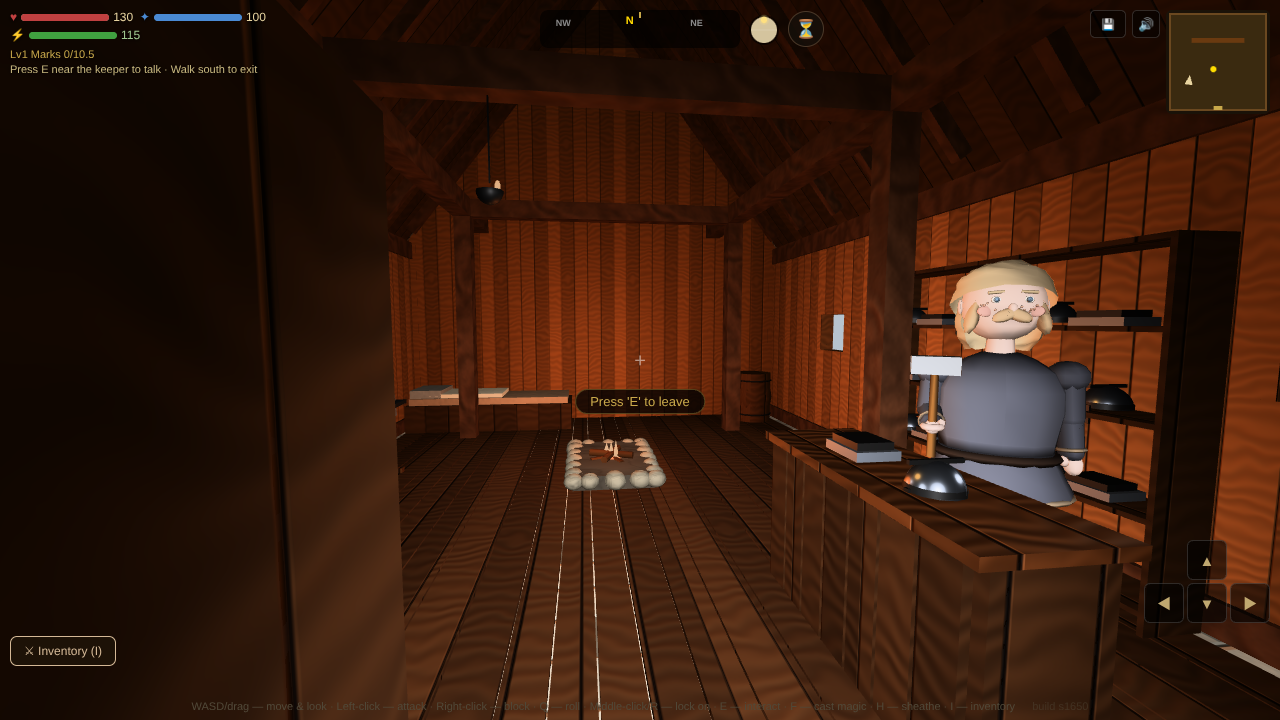
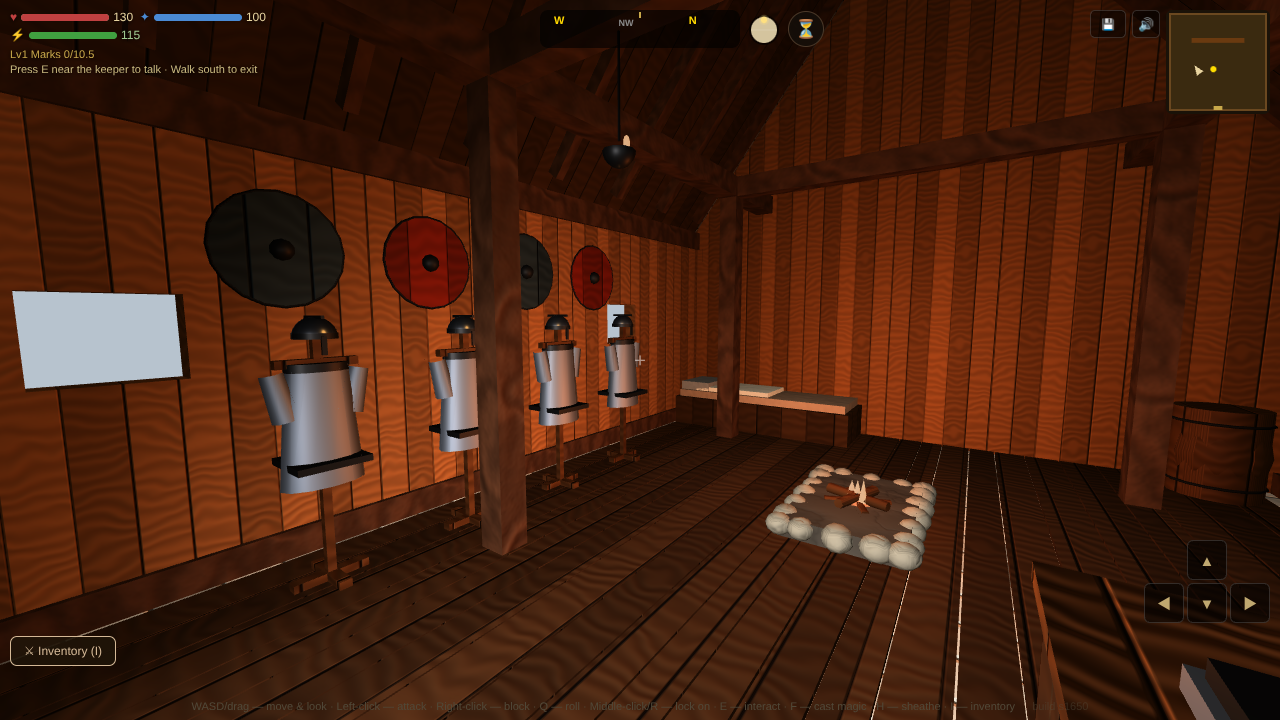
Look S2301: the pictures from inside, toward the trade's side; shopfurn green
Claude-Session: https://claude.ai/code/session_019eFMMpADarB7qhzugc1Cvz

diff --git a/docs/devlog/2301.md b/docs/devlog/2301.md
@@ -47,12 +47,13 @@ the old generated room. In the street they stood as `PKIT.mk.lot`'s hall at what
 - The first run was red on two checks. The hearth walk was blocked at the kerb's corner in every trade, and the armourer's keeper had
   the box at 62°. Both are fixed as above.
 - `rooms.check.mjs`: all passed, including the trader's hall's four checks after the walk's change.
-- `shopfurn`: see the PR (run with this entry).
+- `shopfurn` 1/1 (Dunmore's shops; no Markish shop reaches it).
+- `marktrader` run a second time with the moved picture: 1/1.
 - Pictures: `docs/prototypes/kit-marktrader-misc.png`, `-armor.png`, `-barber.png` (the suite's own).
 
 ### Needs eyes
 - The hall is dark away from the fire at noon, like the healer's hall: the side windows are 0.6 by 0.5 m.
-- The byrnies are smooth mail tubes with no rings, and the furs are flat boards. Both read at the counter's distance, not up close
+- In the game's light the byrnies read pale, near tin, by the window (`kit-marktrader-armor.png`); the prototype's were dark. They are smooth mail tubes with no rings, and the furs are flat boards. Both read at the counter's distance, not up close
   (S2290's notes).
 - A Markish town house that is a shop (S2003's tight lots) still opens on the generated room. It is not drawn.
 - Lots change: a Markish goods shop, armourer or barber whose lot took a smaller or larger hall now stands at 6.4 by 9 m where that fits.
